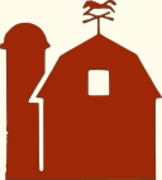
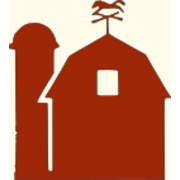
fav frame sizes

diff --git a/index.html b/index.html
@@ -7,10 +7,10 @@
     <meta property="og:url" content="https://yourdomain.com/">
     <meta property="og:type" content="website">
     <title id="page-title">Chelsea Farmers Supply</title>
-    <link rel="icon" type="image/svg+xml" href="/fav.svg?v=20260312">
-    <link rel="icon" type="image/x-icon" href="/favicon.ico?v=20260312">
-    <link rel="shortcut icon" href="/favicon.ico?v=20260312">
-    <link rel="apple-touch-icon" sizes="180x180" href="/apple-touch-icon.png?v=20260312">
+    <link rel="icon" type="image/svg+xml" href="/fav.svg">
+    <link rel="icon" type="image/x-icon" href="/favicon.ico">
+    <link rel="shortcut icon" href="/favicon.ico">
+    <link rel="apple-touch-icon" sizes="180x180" href="/apple-touch-icon.png">
     <link href="fonts.css" rel="stylesheet">
     <link href="style.css" rel="stylesheet">
     <link href="substack.css" rel="stylesheet">
